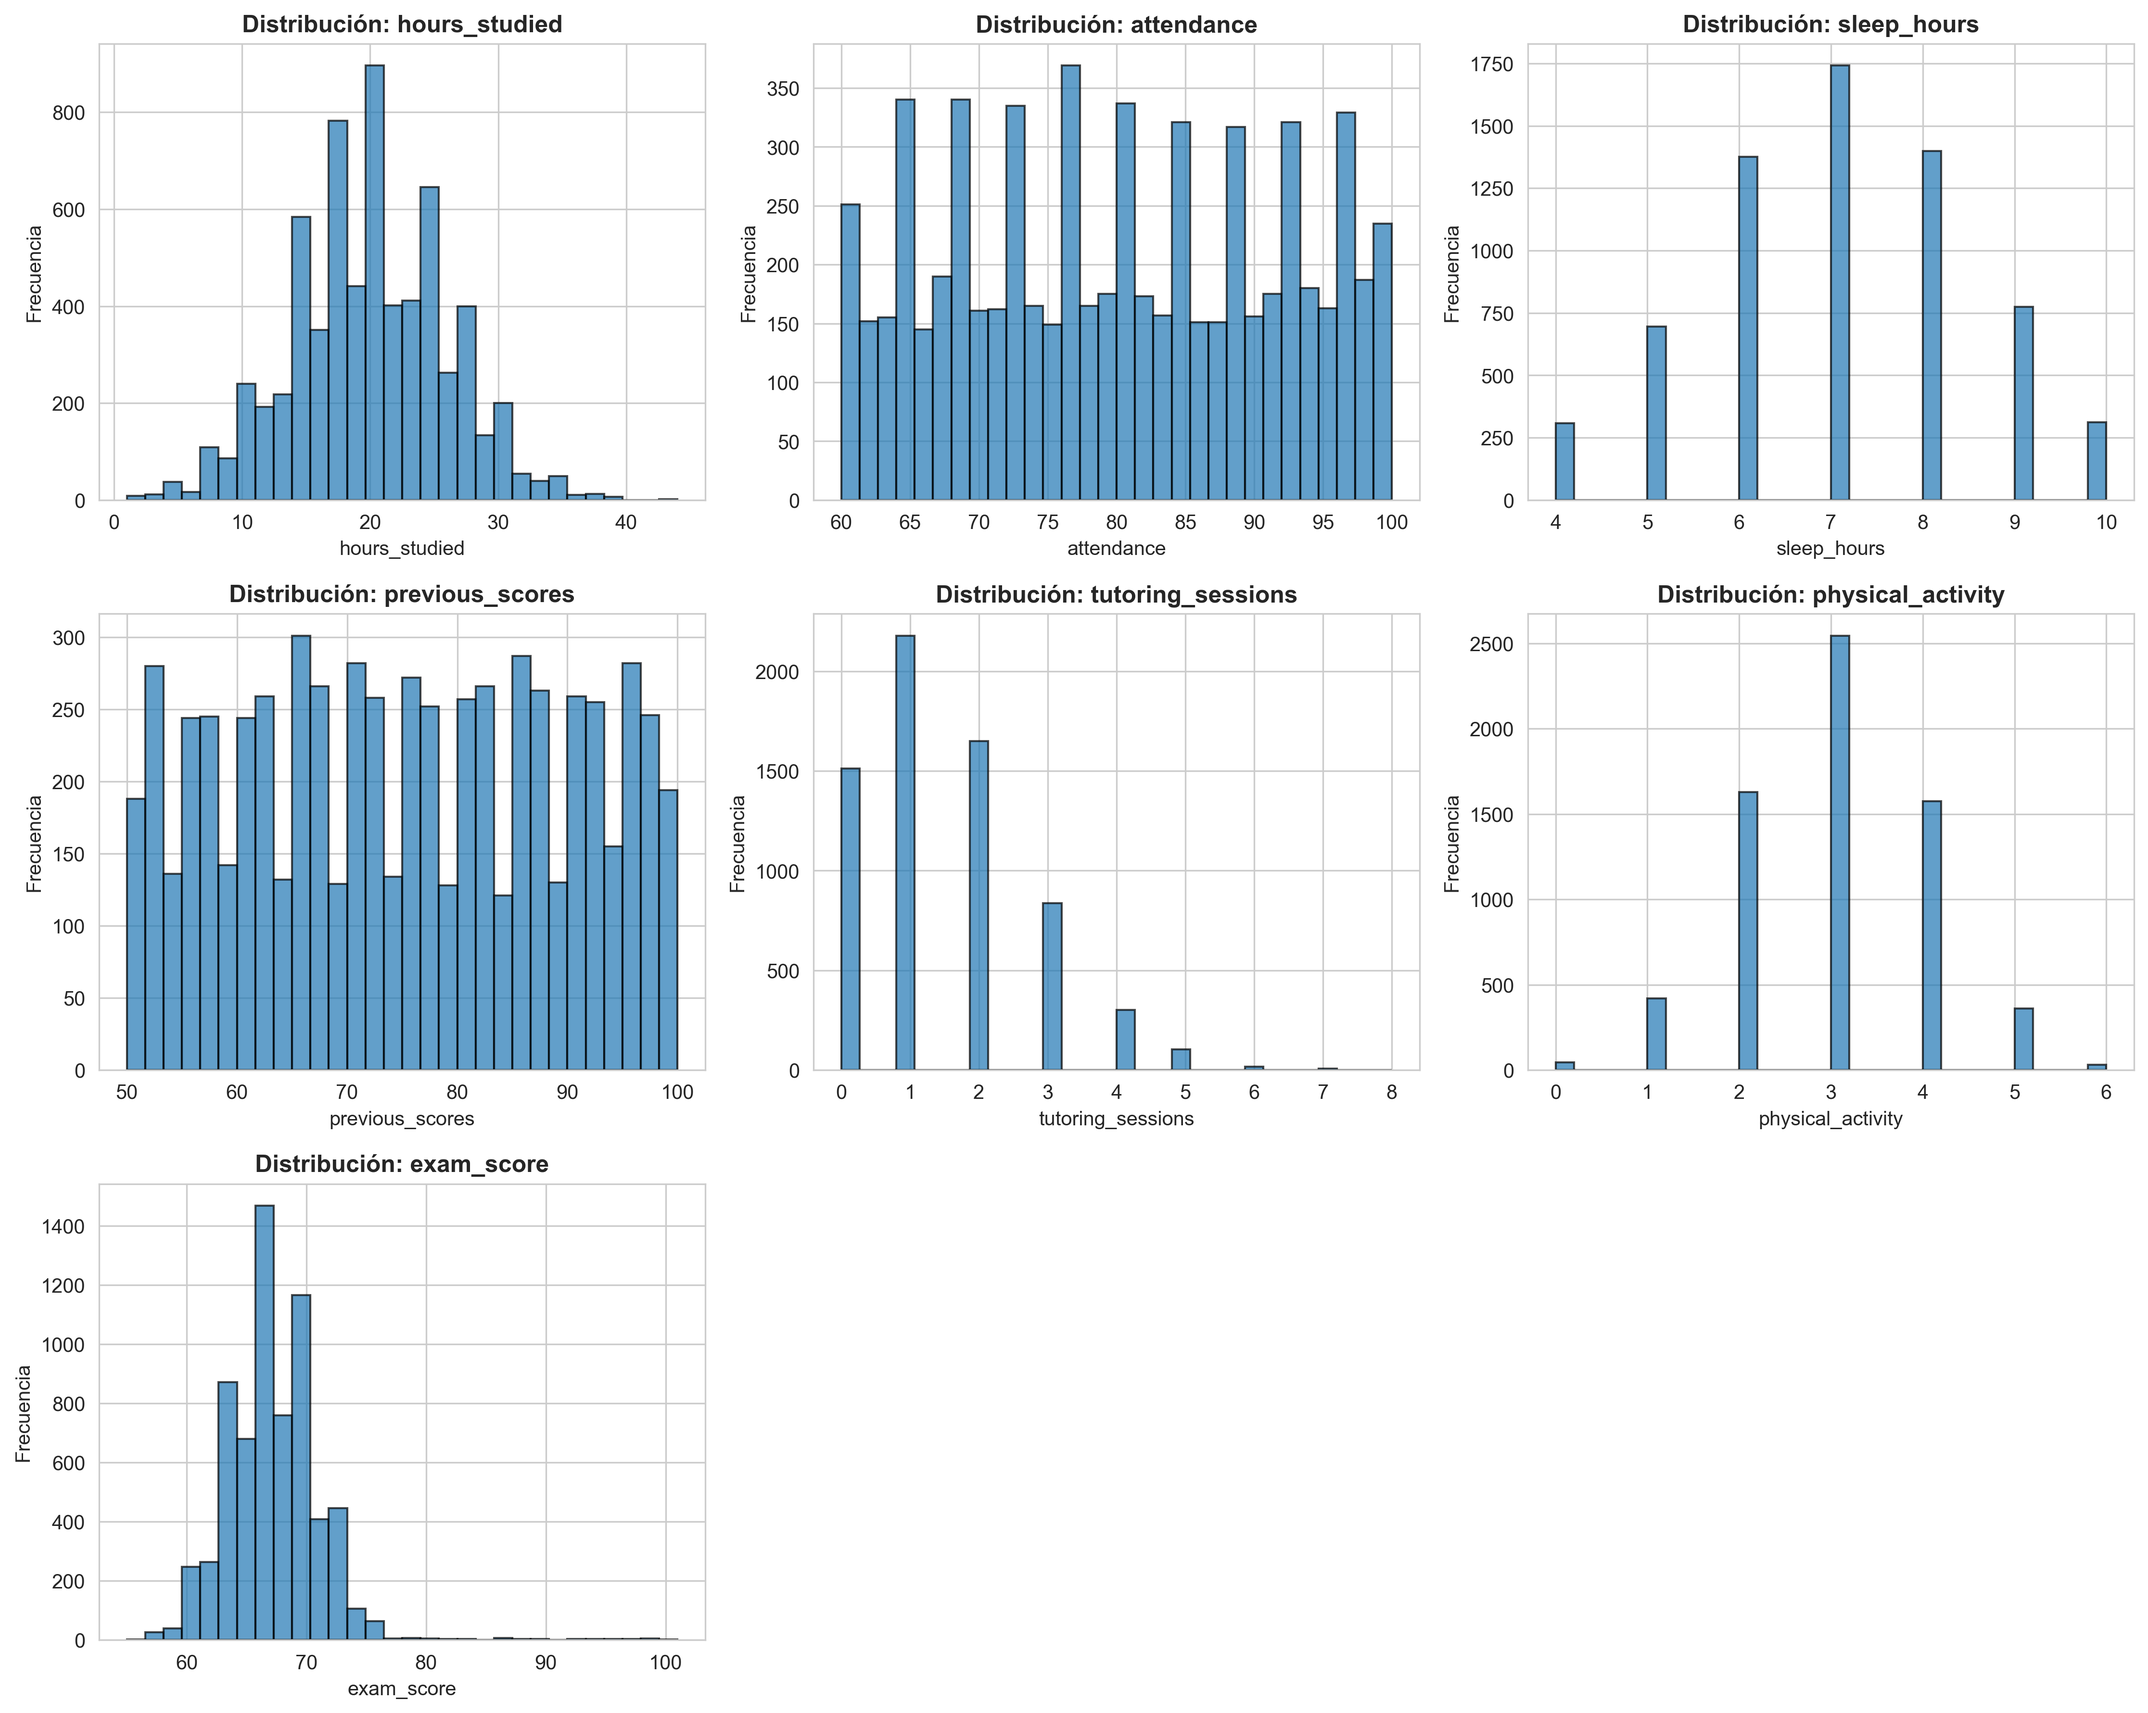
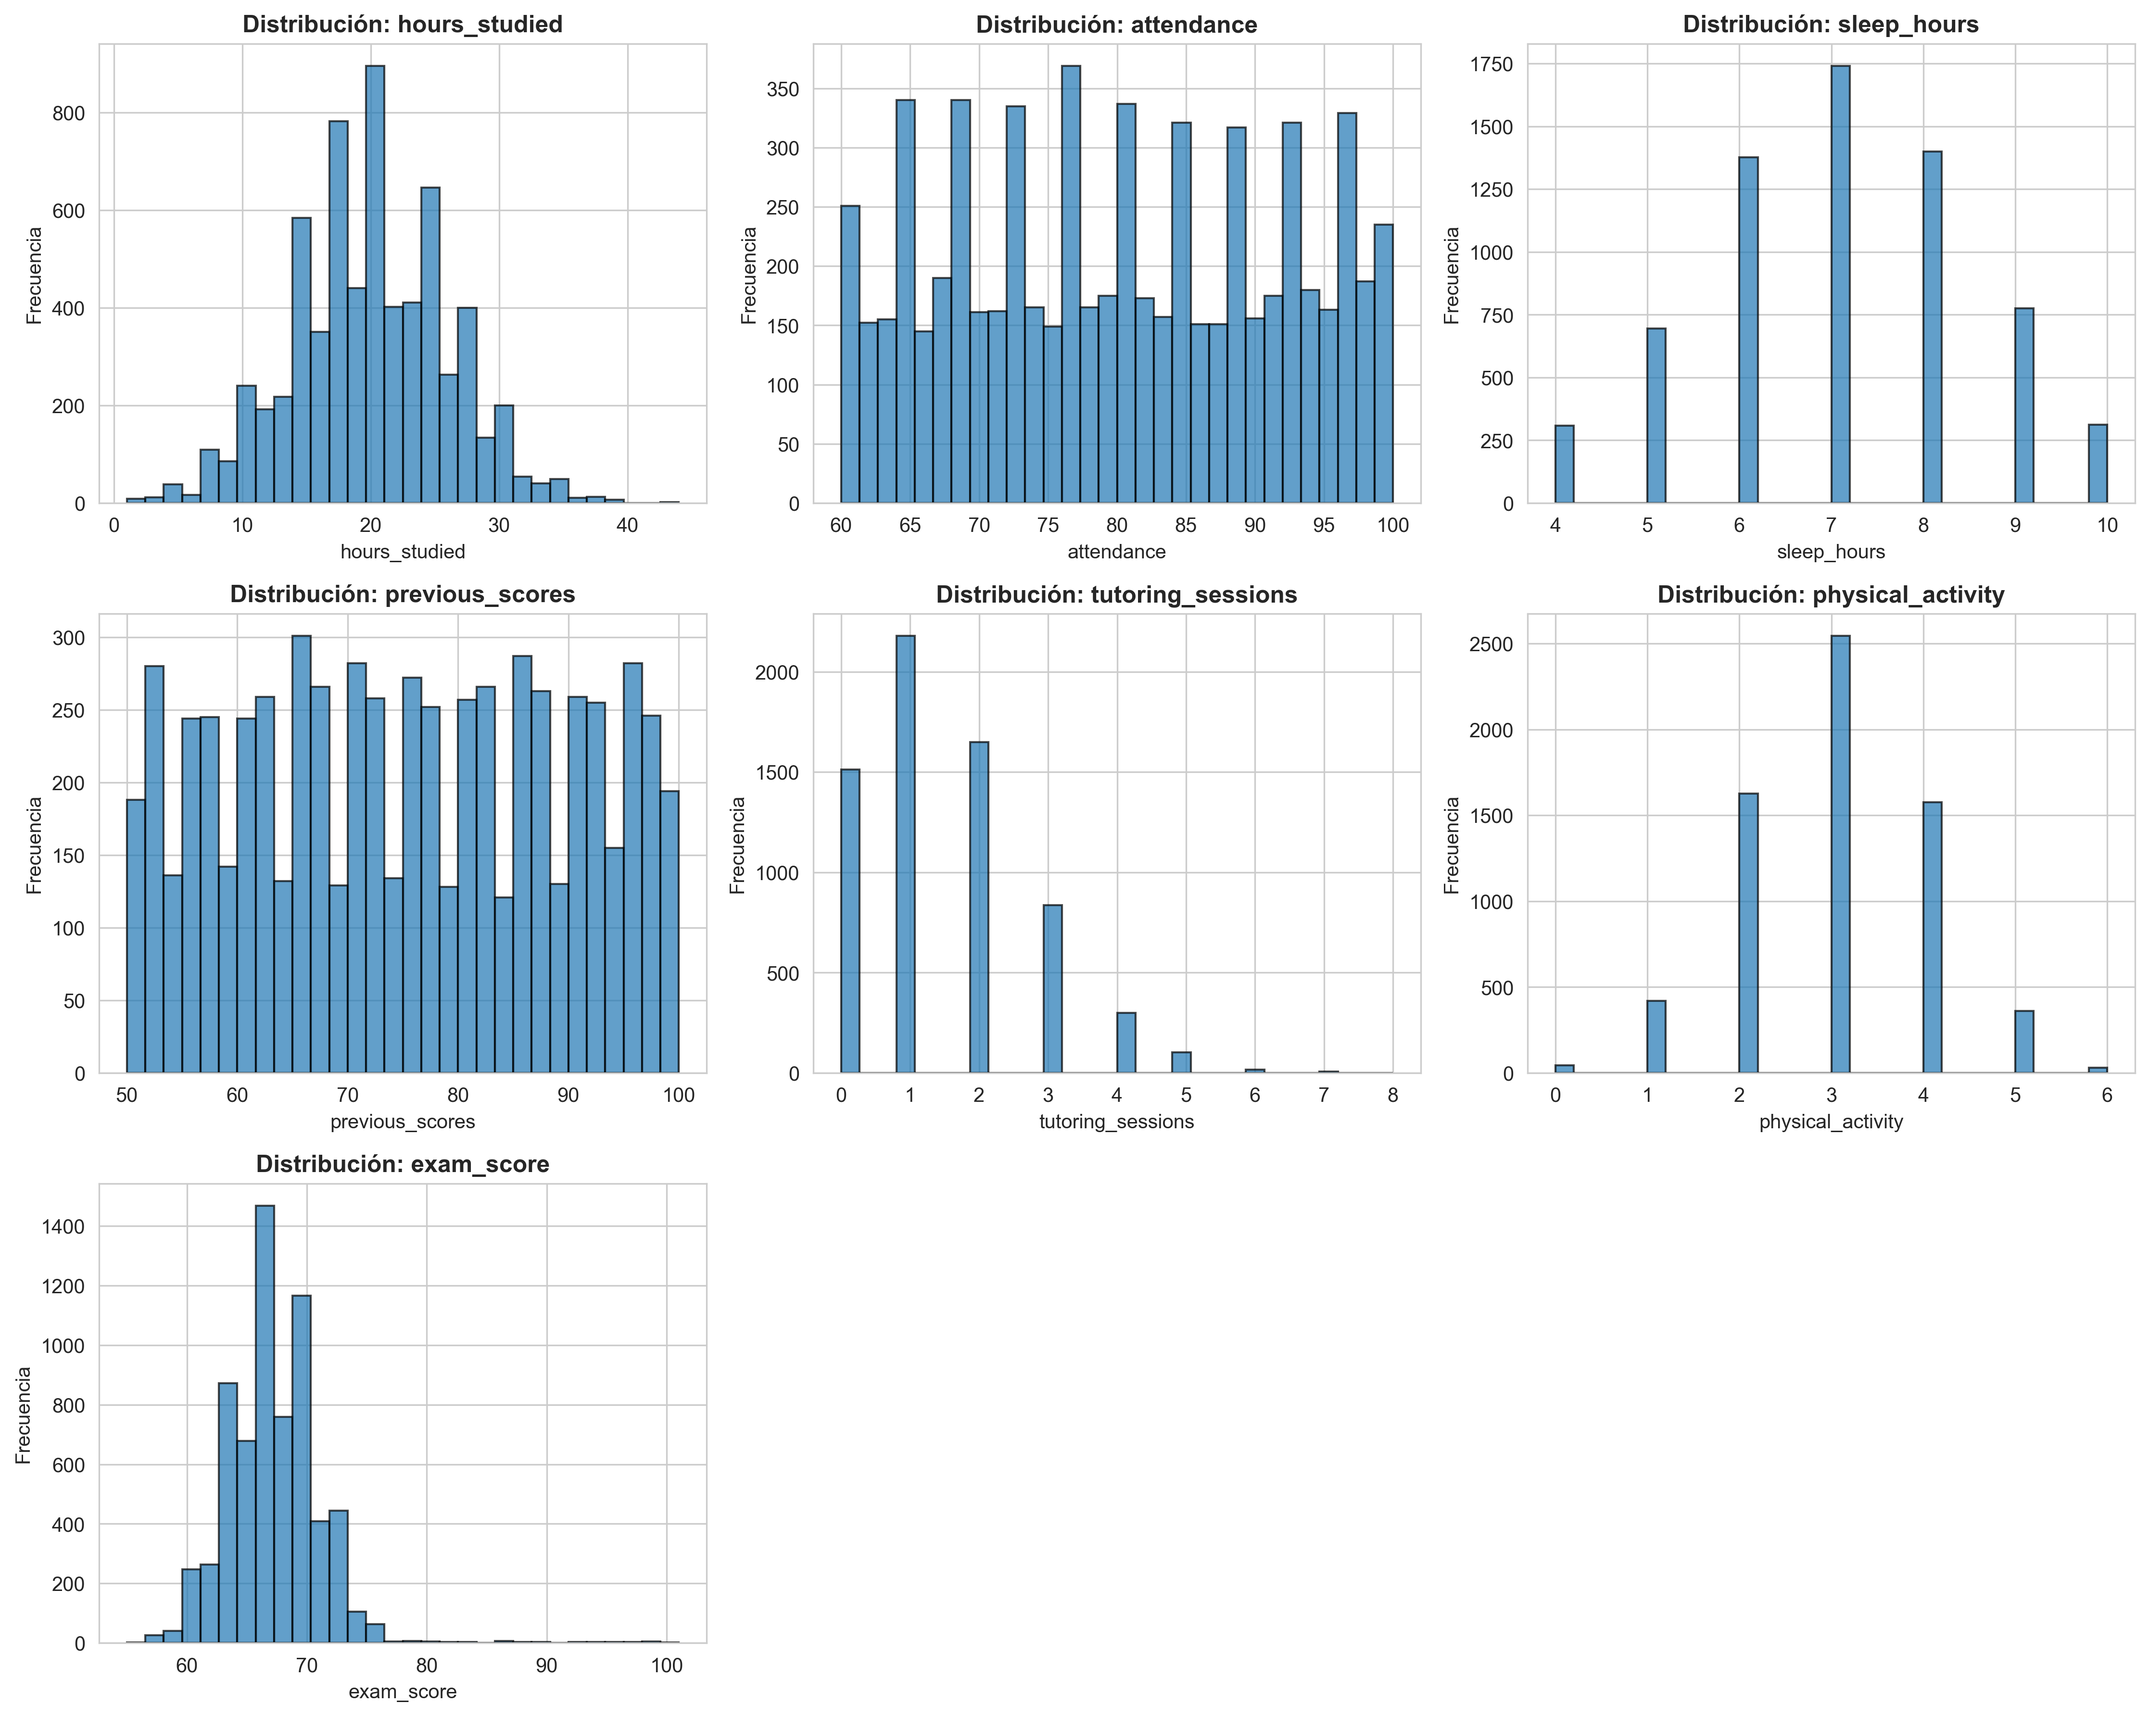
correccion orquestador

diff --git a/Agent/Orquestador.py b/Agent/Orquestador.py
@@ -1,4 +1,9 @@
 from pathlib import Path
+import sys
+
+# Agregar el directorio padre al path para importar Skills
+sys.path.insert(0, str(Path(__file__).parent.parent))
+
 from Skills.preparar_datos import preparar_datos
 from Skills.analisis_eda import ejecutar_eda
 from Skills.modelado import entrenar_modelo
@@ -125,3 +130,15 @@ def ejecutar_pipeline(ruta_dataset):
     }
 
     return resultados
+
+
+if __name__ == "__main__":
+    import sys
+    
+    try:
+        ruta_dataset = "Data/StudentPerformanceFactors.csv"
+        resultados = ejecutar_pipeline(ruta_dataset)
+        sys.exit(0)
+    except Exception as e:
+        print(f"\n❌ Error: {e}")
+        sys.exit(1)

diff --git a/Main.py b/Main.py
@@ -74,7 +74,7 @@ def main():
     print("=" * 60)
 
     # Definir ruta del dataset
-    ruta_dataset = "data/StudentPerformanceFactors.csv"
+    ruta_dataset = "Data/StudentPerformanceFactors.csv"
 
     print(f"\n📁 Ruta del dataset: {ruta_dataset}")
 
